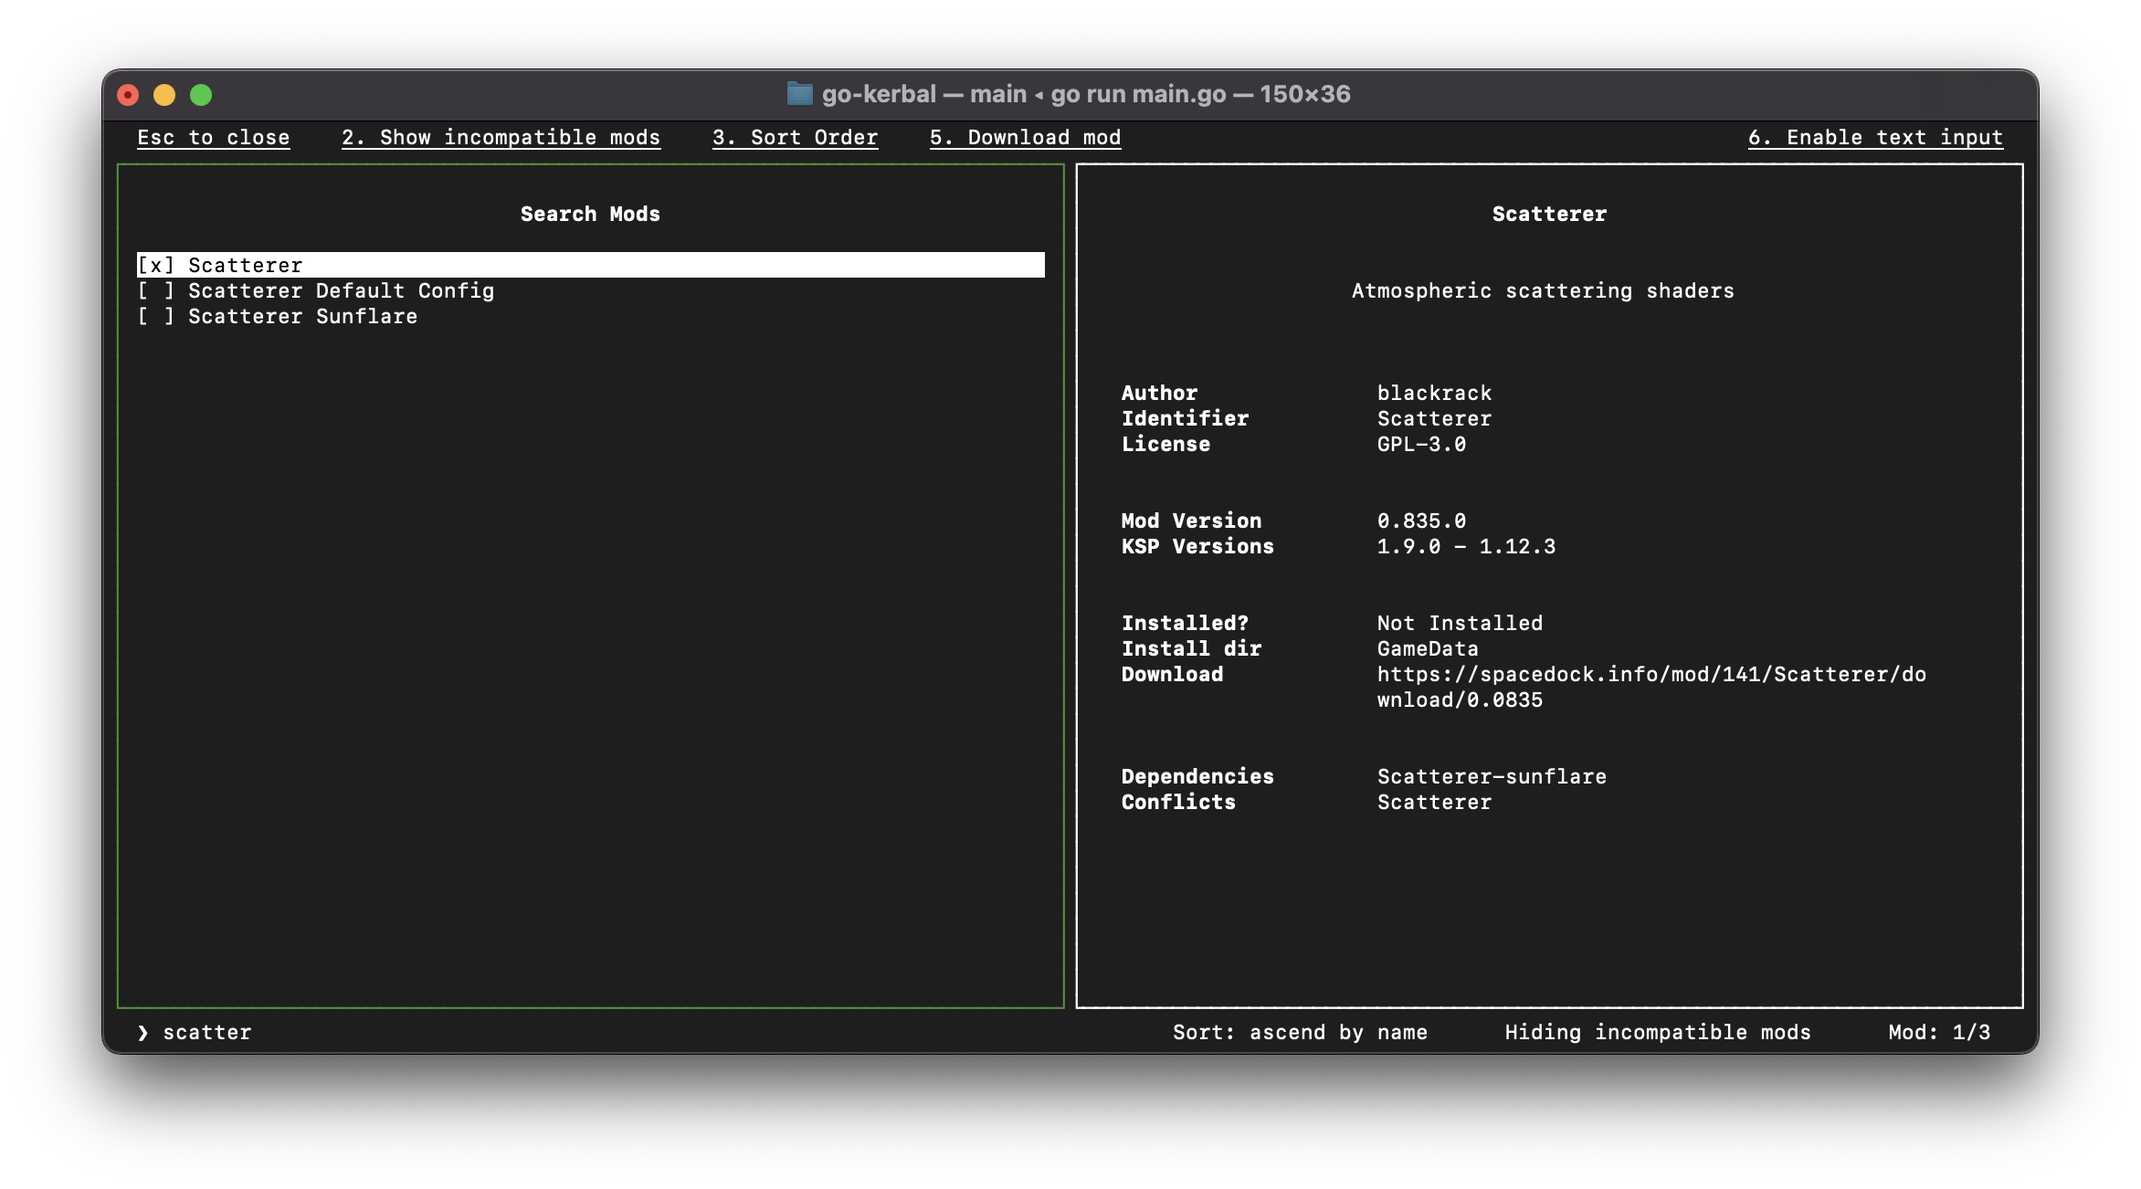
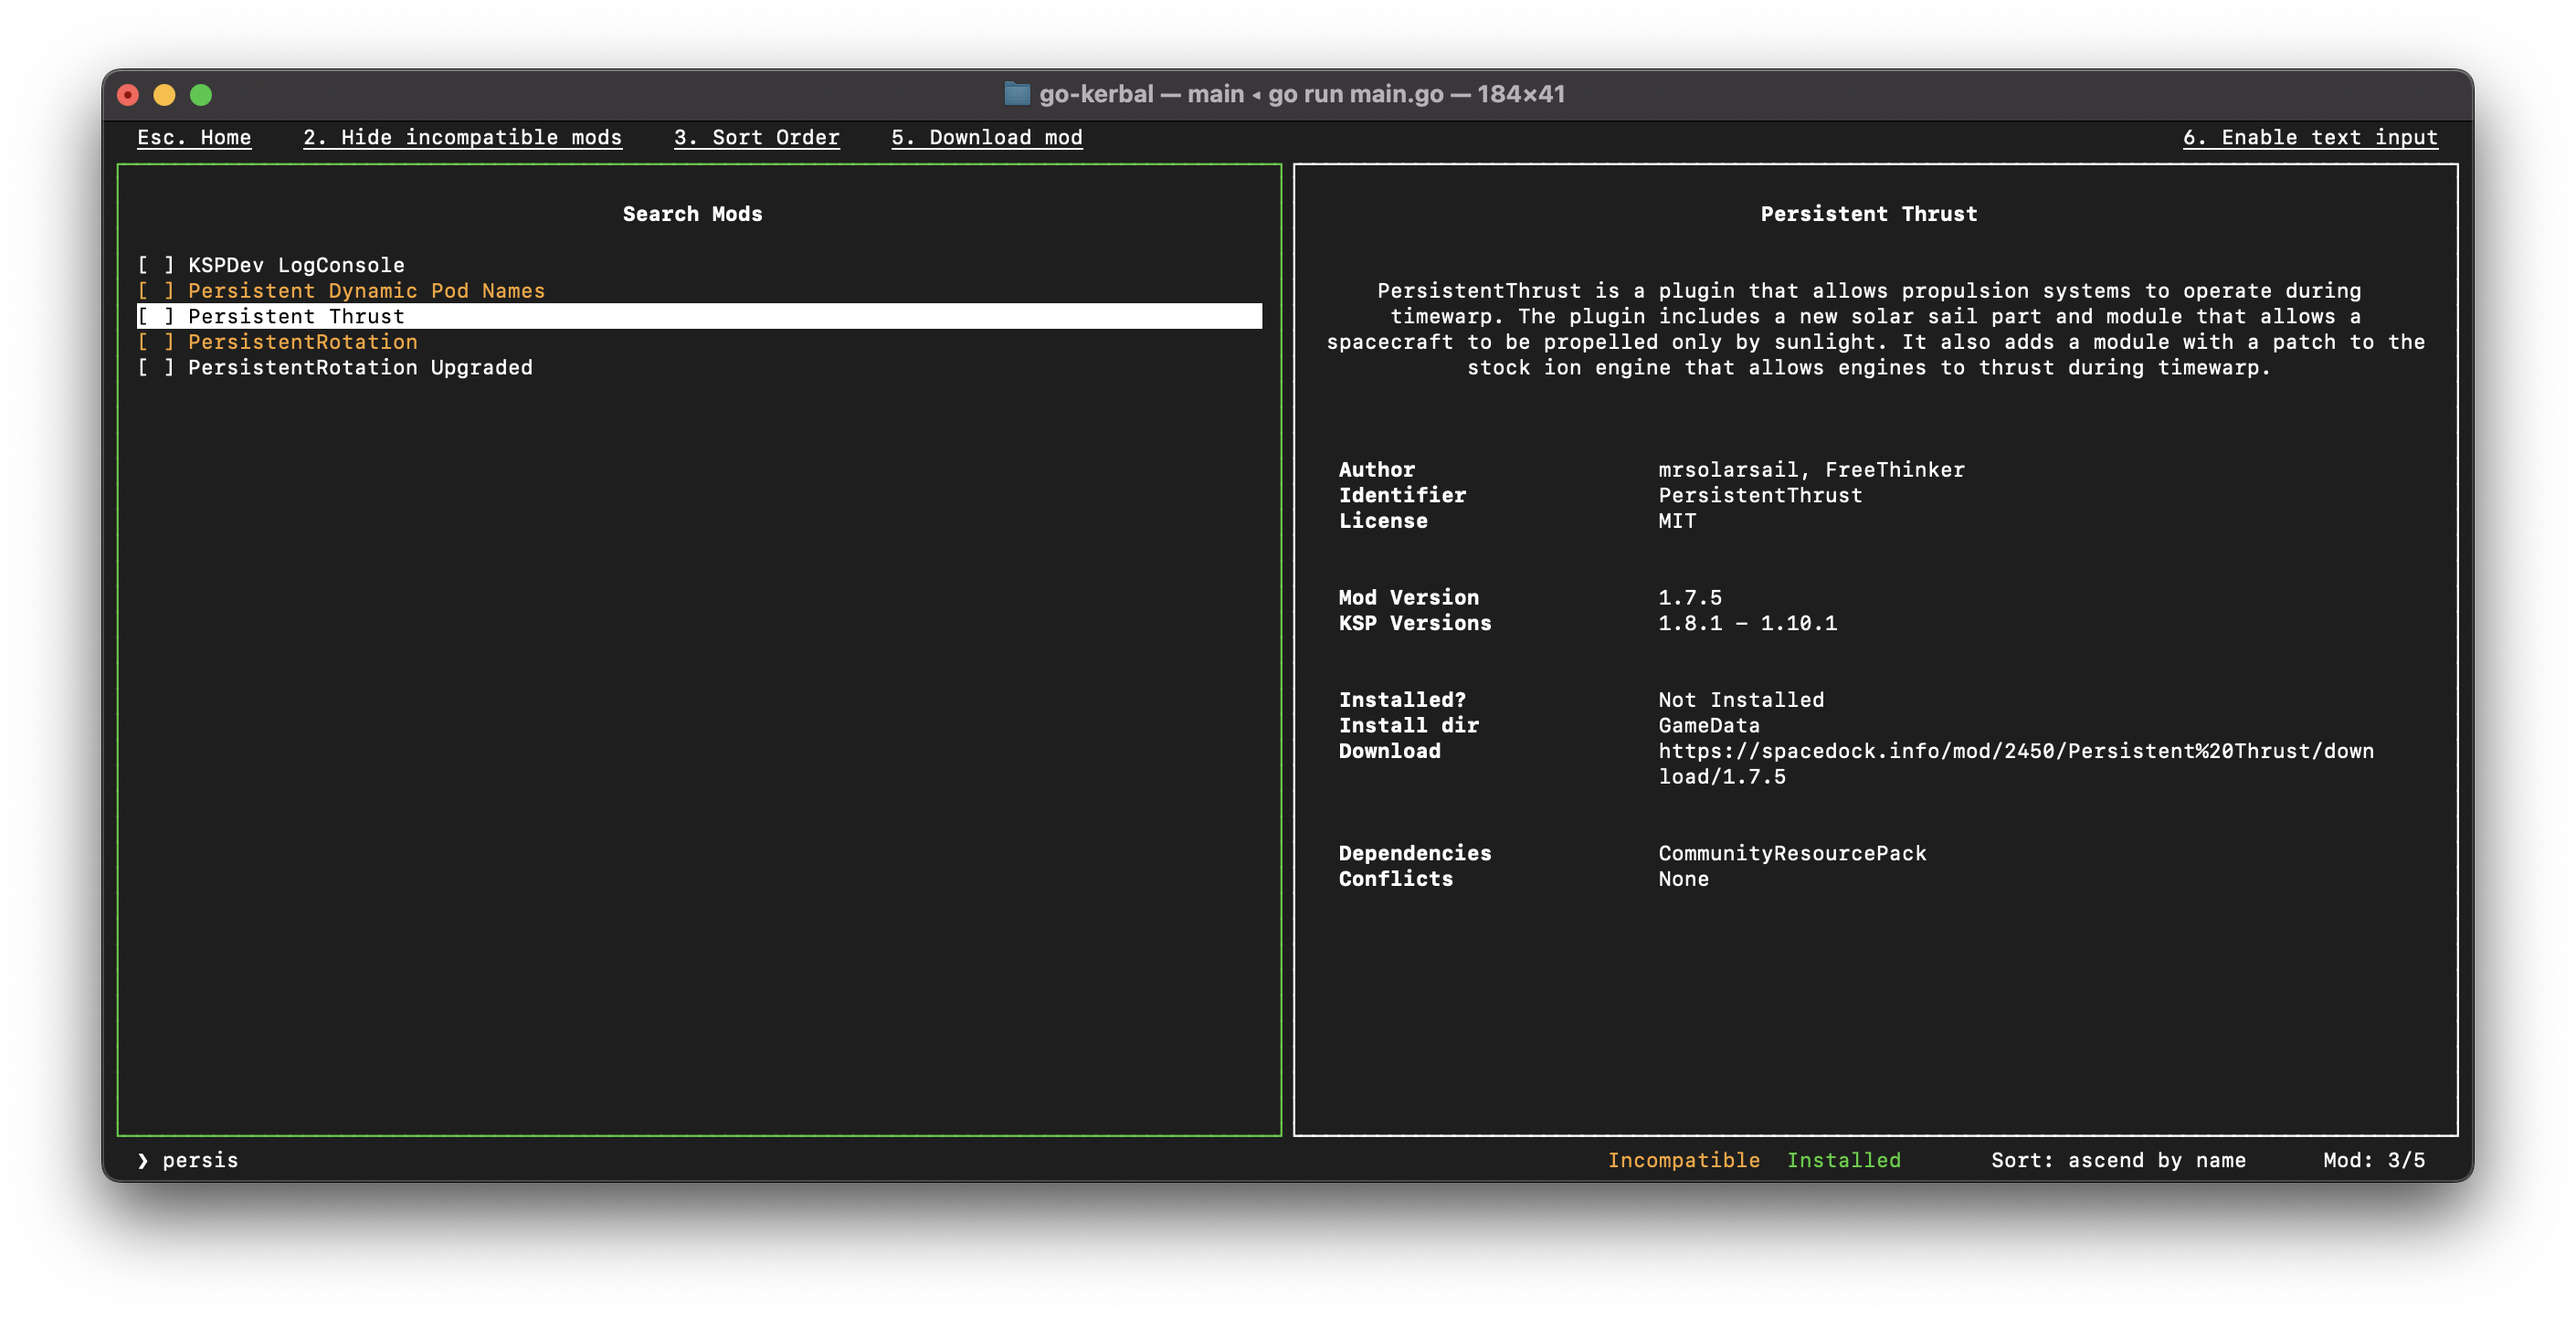
fixed install bug

diff --git a/internal/tui/view.go b/internal/tui/view.go
@@ -397,19 +397,29 @@ func (b Bubble) statusBarView() string {
 		Padding(0, 3).
 		Render(sortOptions)
 
-	var showCompatible string
-	if cfg.Settings.HideIncompatibleMods {
-		showCompatible = "Hiding incompatible mods"
-	} else {
-		showCompatible = "Showing incompatible mods"
+	installedLegend := lipgloss.NewStyle().
+		Foreground(b.theme.Green).
+		Padding(0, 1).
+		Render("Installed")
+	incompatibleLegend := lipgloss.NewStyle().
+		Foreground(b.theme.Orange).
+		Padding(0, 1).
+		Render("Incompatible")
+
+	colorLegend := installedLegend
+	if !cfg.Settings.HideIncompatibleMods {
+		colorLegend = lipgloss.JoinHorizontal(lipgloss.Top,
+			incompatibleLegend,
+			installedLegend)
 	}
-	showCompatible = statusBarStyle.
+
+	colorLegend = statusBarStyle.
 		Align(lipgloss.Right).
 		Padding(0, 3).
-		Render(showCompatible)
+		Render(colorLegend)
 
 	var status string
-	statusWidth := b.width - width(fileCount) - width(sortOptions) - width(showCompatible)
+	statusWidth := b.width - width(fileCount) - width(sortOptions) - width(colorLegend)
 	if b.searchInput {
 		status = statusBarStyle.
 			Align(lipgloss.Left).
@@ -471,7 +481,7 @@ func (b Bubble) statusBarView() string {
 
 	return lipgloss.JoinHorizontal(lipgloss.Top,
 		status,
-		showCompatible,
+		colorLegend,
 		sortOptions,
 		fileCount,
 	)

diff --git a/registry/registry.go b/registry/registry.go
@@ -281,12 +281,8 @@ func installMod(mod Ckan) error {
 	if err != nil {
 		return fmt.Errorf("getting KSP dir: %v", err)
 	}
-	installToDir, err := filepath.Abs(mod.Install.InstallTo)
-	if err != nil {
-		return err
-	}
 
-	re := regexp.MustCompile("(?i)" + installToDir)
+	re := regexp.MustCompile("(?i)" + mod.Install.InstallTo)
 	// unzip all into GameData folder
 	for _, f := range zipReader.File {
 		if f.Name != "" {
@@ -302,7 +298,7 @@ func installMod(mod Ckan) error {
 					return fmt.Errorf("unzipping file to filesystem: %v", err)
 				}
 			} else {
-				return fmt.Errorf("path mismatch: \"%v\" %v ", f.Name, installToDir)
+				return fmt.Errorf("path mismatch: \"%v\" \"%v\" ", f.Name, mod.Install.InstallTo)
 			}
 		}
 	}
